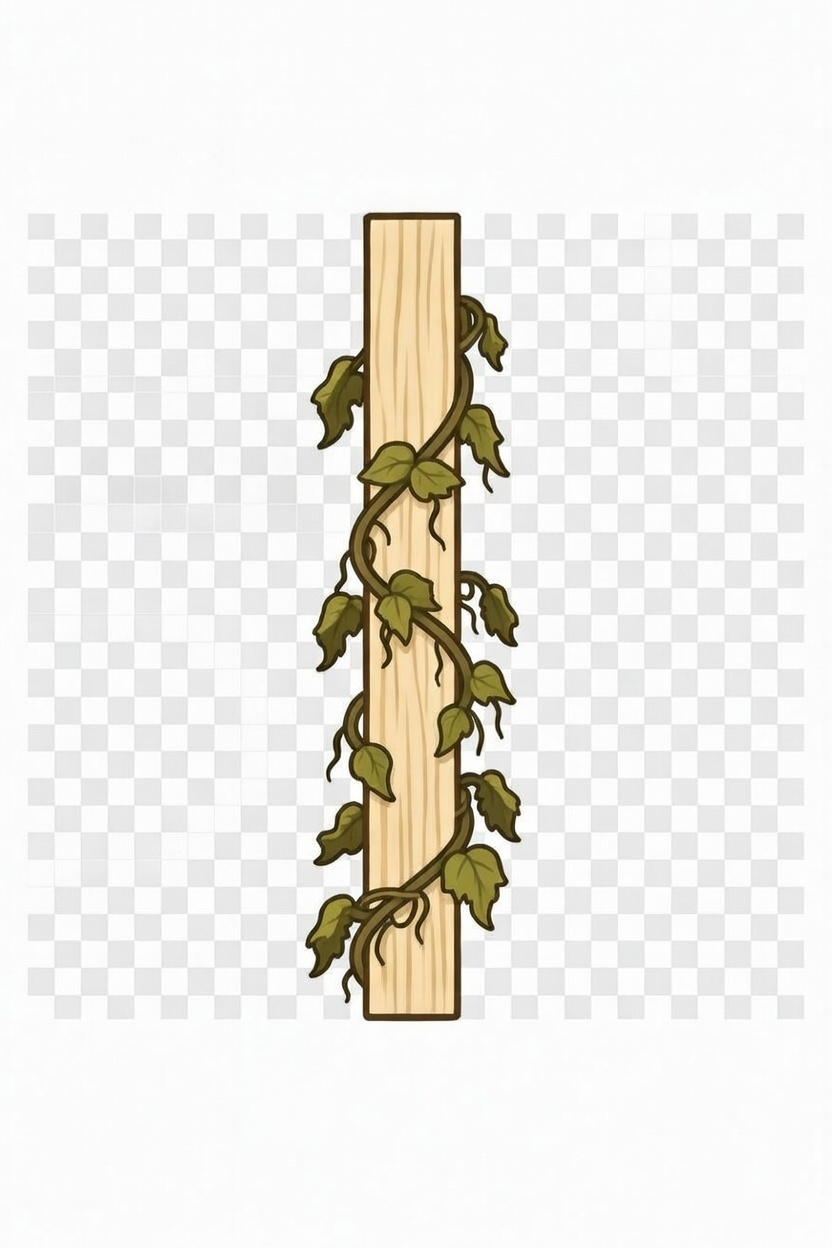
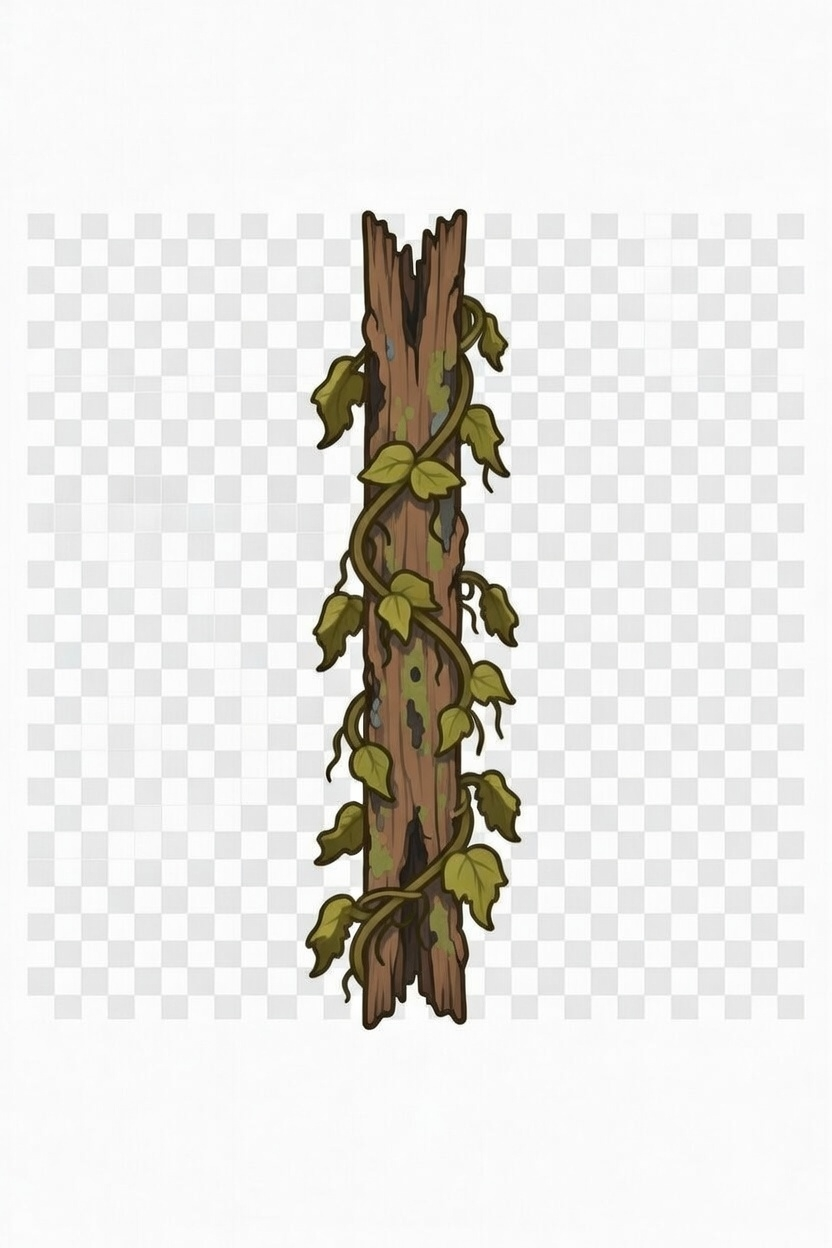
feat: Introduce new withered vine assets with a rotting wood effect, update the classic spritesheet, and adjust the `tapEffectLight` theme color.

Changed region(s): [[0.4375, 0.1562, 0.5625, 0.8438]]

diff --git a/apps/parable-bloom/lib/core/app_theme.dart b/apps/parable-bloom/lib/core/app_theme.dart
@@ -61,7 +61,7 @@ class AppTheme {
   }
 
   /// Tap effect color (light mode) - darker for contrast on light background
-  static const Color tapEffectLight = Color(0xFF1C1B1F); // Dark gray
+  static const Color tapEffectLight = Color(0xFF8E8A86); // Muted gray
 
   /// Tap effect color (dark mode) - lighter for contrast on dark background
   static const Color tapEffectDark = Color(0xFFE6E1E5); // Light gray

diff --git a/documentation/ARCHITECTURE.md b/documentation/ARCHITECTURE.md
@@ -169,7 +169,7 @@ tools/
 
 scripts/               # Workspace-wide utility scripts
 ├── bump_version.dart          # Versioning logic (synced with Nx Release)
-├── build_vine_spritesheet.py   # Automates generation of classic spritesheets from vine asset segments
+├── build_vine_spritesheet.py   # Automates generation of classic spritesheets from vine asset segments (includes rotting wood effect for withered vines)
 ├── rebuild_simple_vines.py     # Generates the geometric/simple spritesheet with consistent thickness
 └── ...
 
